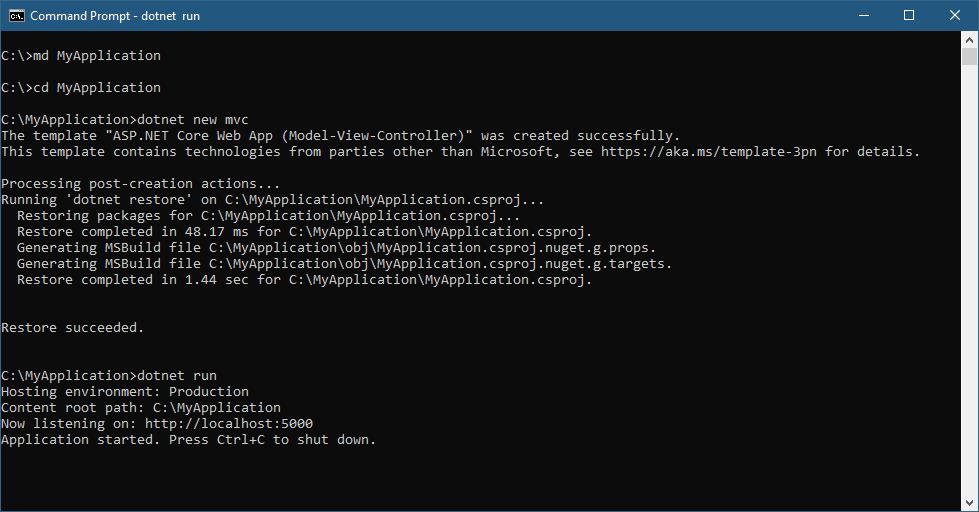
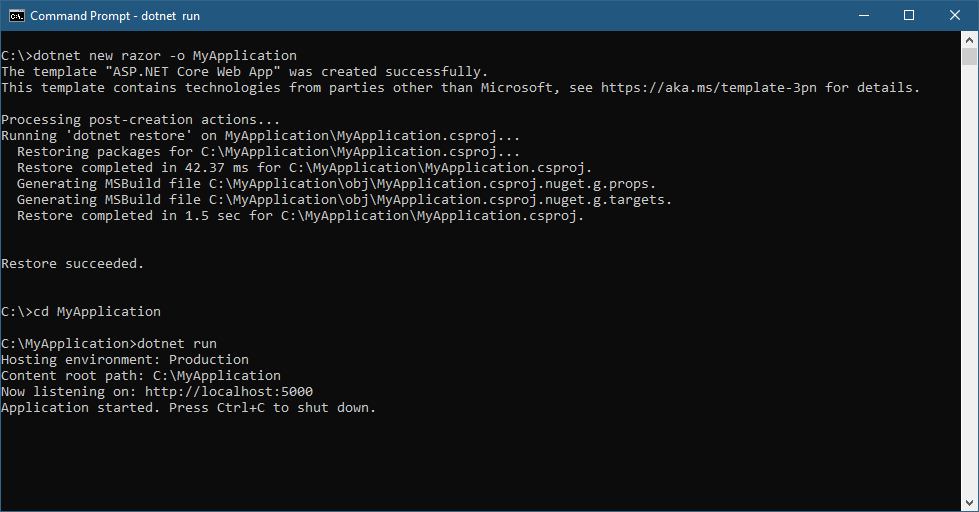
edits per review

Changed region(s): [[0.0, 0.2188, 0.9499, 0.5625], [0.0, 0.5938, 0.3984, 0.875], [0.0, 0.0938, 0.9499, 0.1875]]

diff --git a/aspnetcore/tutorials/publish-to-azure-webapp-using-cli.md b/aspnetcore/tutorials/publish-to-azure-webapp-using-cli.md
@@ -39,13 +39,11 @@ To complete this tutorial, you'll need:
 Create a new directory for the web application, create a new ASP.NET Core MVC application, and then run the website locally.
 
 ```cmd
-REM Create the directory and navigate to it.
-REM These commands are Windows-specific. The Bash equivalents are mkdir and cd.
-md MyApplication
-cd MyApplication
-
 REM Create a new ASP.NET Core MVC application
-dotnet new mvc
+dotnet new razor -o MyApplication
+
+REM Change to the new directory that was just created
+cd MyApplication
 
 REM Run the application
 dotnet run
@@ -53,7 +51,7 @@ dotnet run
 
 ![Command line output](publish-to-azure-webapp-using-cli/_static/new_prj.png)
 
-You can then test the application by browsing to the displayed address (usually `http://localhost:5000`).
+Test the application by browsing to http://localhost:5000.
 
 ![The website running locally](publish-to-azure-webapp-using-cli/_static/app_test.png)
 
@@ -77,18 +75,18 @@ az appservice plan create --name $webappname --resource-group DotNetAzureTutoria
 az webapp create --name $webappname --resource-group DotNetAzureTutorial --plan $webappname
 ```
 
-Before you deploy, you need to set the account-level deployment credentials.  Use the script below, making sure to include your own values for the user name and password.
+Before deployment, set the account-level deployment credentials using the following command:
 
 ```azurecli-interactive
 az webapp deployment user set --user-name <desired user name> --password <desired password>
 ```
 
-You'll also need the deployment URL to deploy the application using Git.  Retrieve the URL like this.
+A deployment URL is needed to deploy the application using Git.  Retrieve the URL like this.
 
 ```azurecli-interactive
 az webapp deployment source config-local-git -n $webappname -g DotNetAzureTutorial --query [url] -o tsv
 ```
-Note the displayed URL ending in `.git`.  You'll need it in the next step.
+Note the displayed URL ending in `.git`. It's used in the next step.
 
 ## Deploy the application using Git
 
@@ -113,7 +111,7 @@ REM Push the local repository to the remote
 git push azure master
 ```
 
-You will be prompted for the deployment credentials you set earlier.  After authenticating, the application will be built remotely and deployed.
+Git will prompt for the deployment credentials that were set earlier.  After authenticating, the application will be pushed to the remote location, built, and deployed.
 
 ![Git deployment output](publish-to-azure-webapp-using-cli/_static/post_deploy.png)
 
@@ -129,7 +127,7 @@ az webapp show -n $webappname -g DotNetAzureTutorial --query defaultHostName -o 
 
 ## Clean up
 
-When you're done testing the app and inspecting the code and resources, you can delete the web app and plan by deleting the resource group.
+When finished testing the app and inspecting the code and resources, delete the web app and plan by deleting the resource group.
 
 ```azurecli-interactive
 az group delete -n DotNetAzureTutorial
